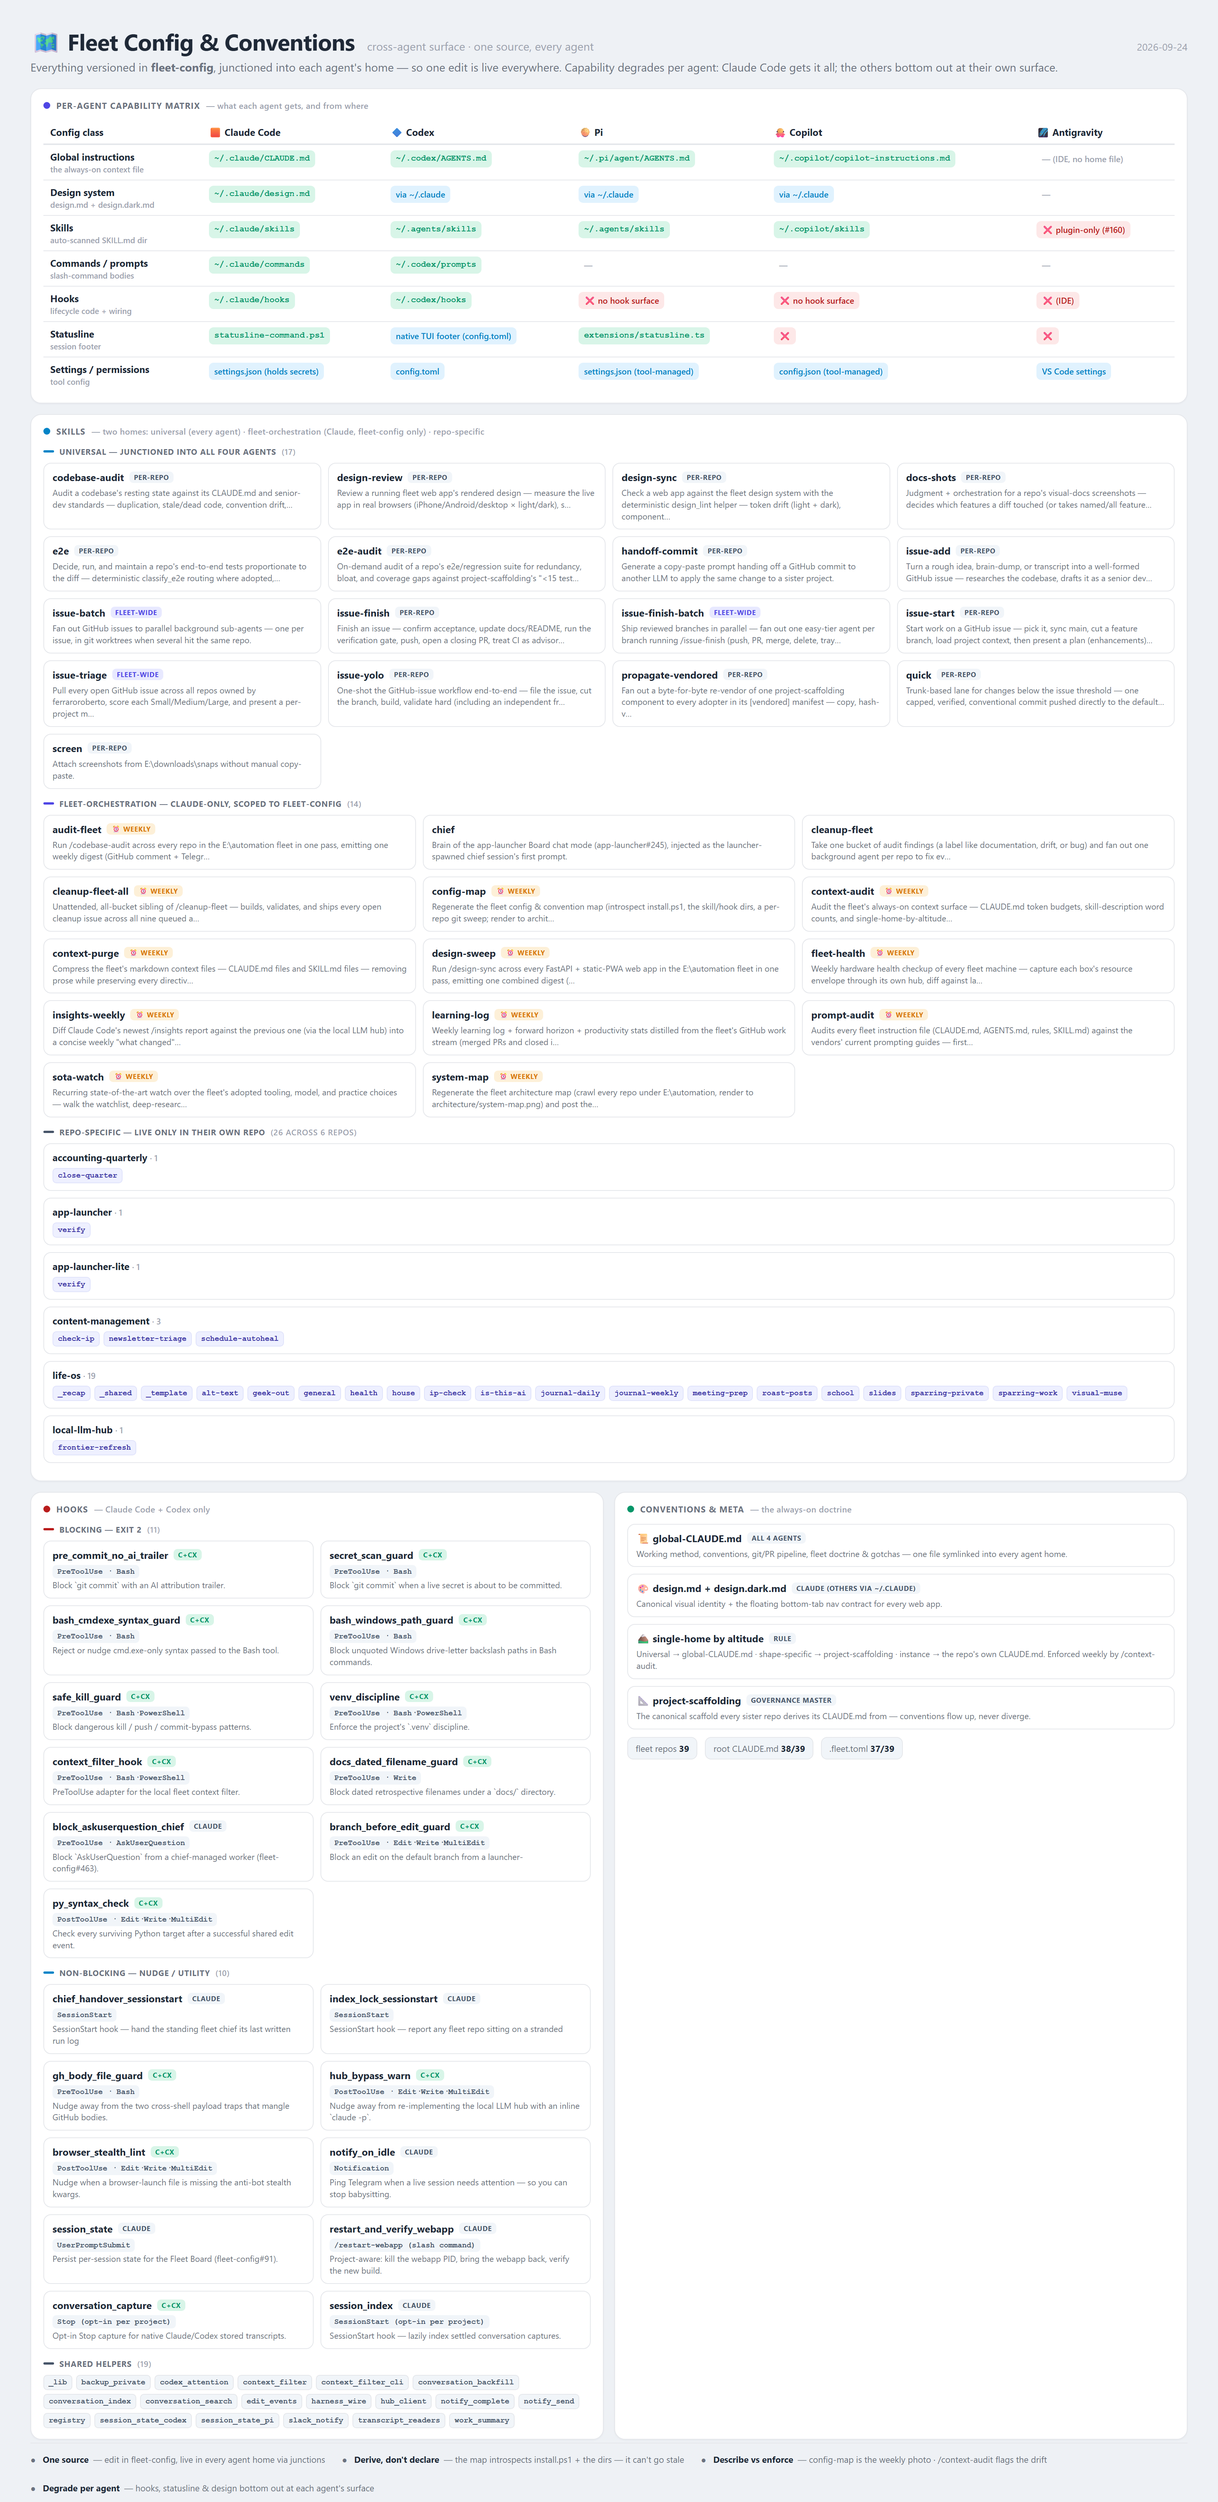
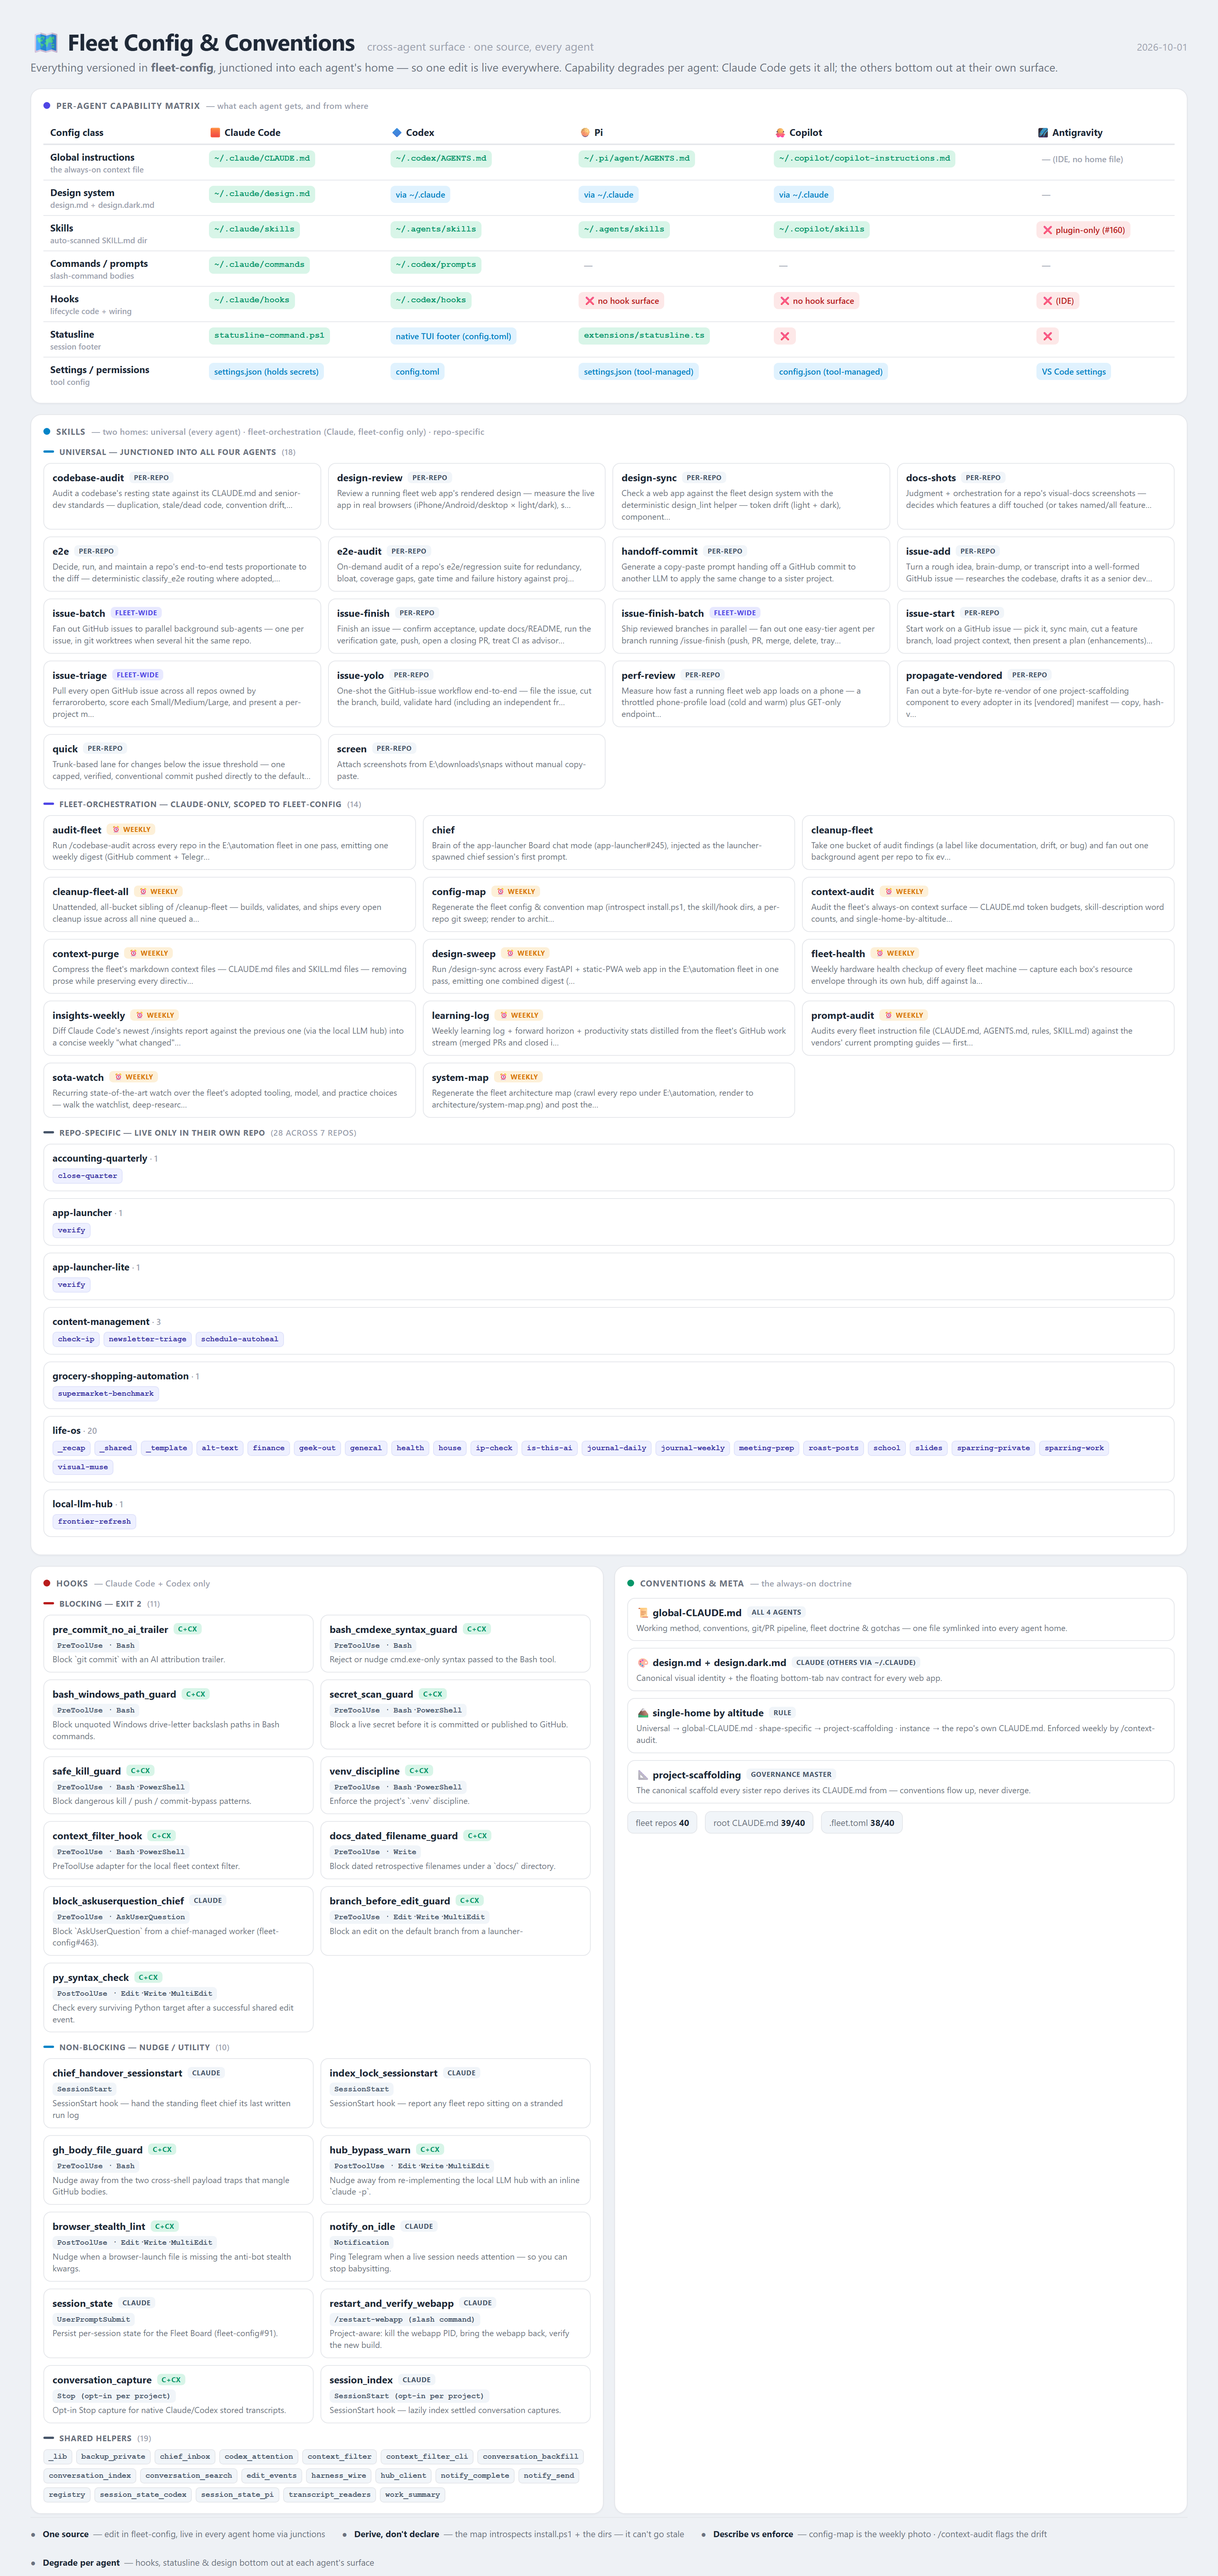
docs: refresh config map (2026-10-02)

diff --git a/architecture/config.data.js b/architecture/config.data.js
@@ -143,7 +143,7 @@ window.CONFIG = {
     },
     {
       "nm": "e2e-audit",
-      "ds": "On-demand audit of a repo's e2e/regression suite for redundancy, bloat, and coverage gaps against project-scaffolding's \"&lt;15 test…",
+      "ds": "On-demand audit of a repo's e2e/regression suite for redundancy, bloat, coverage gaps, gate time and failure history against proj…",
       "scope": "repo"
     },
     {
@@ -184,6 +184,11 @@ window.CONFIG = {
     {
       "nm": "issue-yolo",
       "ds": "One-shot the GitHub-issue workflow end-to-end — file the issue, cut the branch, build, validate hard (including an independent fr…",
+      "scope": "repo"
+    },
+    {
+      "nm": "perf-review",
+      "ds": "Measure how fast a running fleet web app loads on a phone — a throttled phone-profile load (cold and warm) plus GET-only endpoint…",
       "scope": "repo"
     },
     {
@@ -302,12 +307,19 @@ window.CONFIG = {
       ]
     },
     {
+      "repo": "grocery-shopping-automation",
+      "items": [
+        "supermarket-benchmark"
+      ]
+    },
+    {
       "repo": "life-os",
       "items": [
         "_recap",
         "_shared",
         "_template",
         "alt-text",
+        "finance",
         "geek-out",
         "general",
         "health",
@@ -355,13 +367,6 @@ window.CONFIG = {
       "ds": "Block `git commit` with an AI attribution trailer."
     },
     {
-      "nm": "secret_scan_guard",
-      "ev": "PreToolUse · Bash",
-      "block": true,
-      "reach": "Claude + Codex",
-      "ds": "Block `git commit` when a live secret is about to be committed."
-    },
-    {
       "nm": "gh_body_file_guard",
       "ev": "PreToolUse · Bash",
       "block": false,
@@ -381,6 +386,13 @@ window.CONFIG = {
       "block": true,
       "reach": "Claude + Codex",
       "ds": "Block unquoted Windows drive-letter backslash paths in Bash commands."
+    },
+    {
+      "nm": "secret_scan_guard",
+      "ev": "PreToolUse · Bash·PowerShell",
+      "block": true,
+      "reach": "Claude + Codex",
+      "ds": "Block a live secret before it is committed or published to GitHub."
     },
     {
       "nm": "safe_kill_guard",
@@ -489,6 +501,10 @@ window.CONFIG = {
     {
       "nm": "backup_private",
       "ds": "Thin CLI entry point for the daily fleet-private backup engine."
+    },
+    {
+      "nm": "chief_inbox",
+      "ds": "Chief inbox: a chief-managed worker's turn-end becomes a wake event (fleet-config#999)."
     },
     {
       "nm": "codex_attention",
